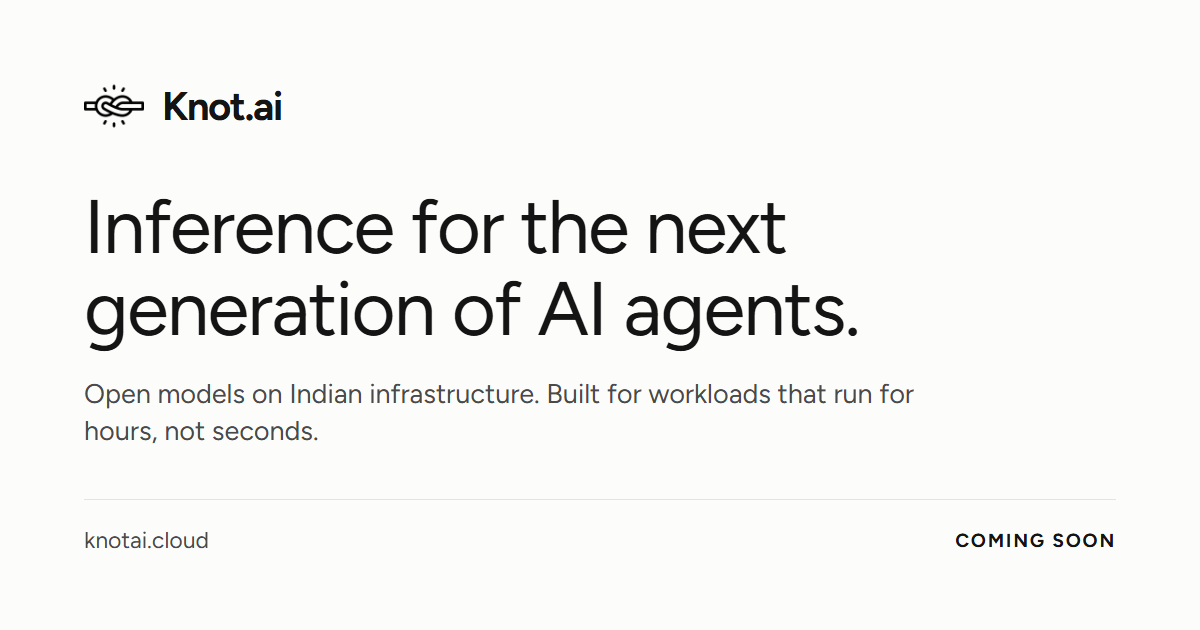
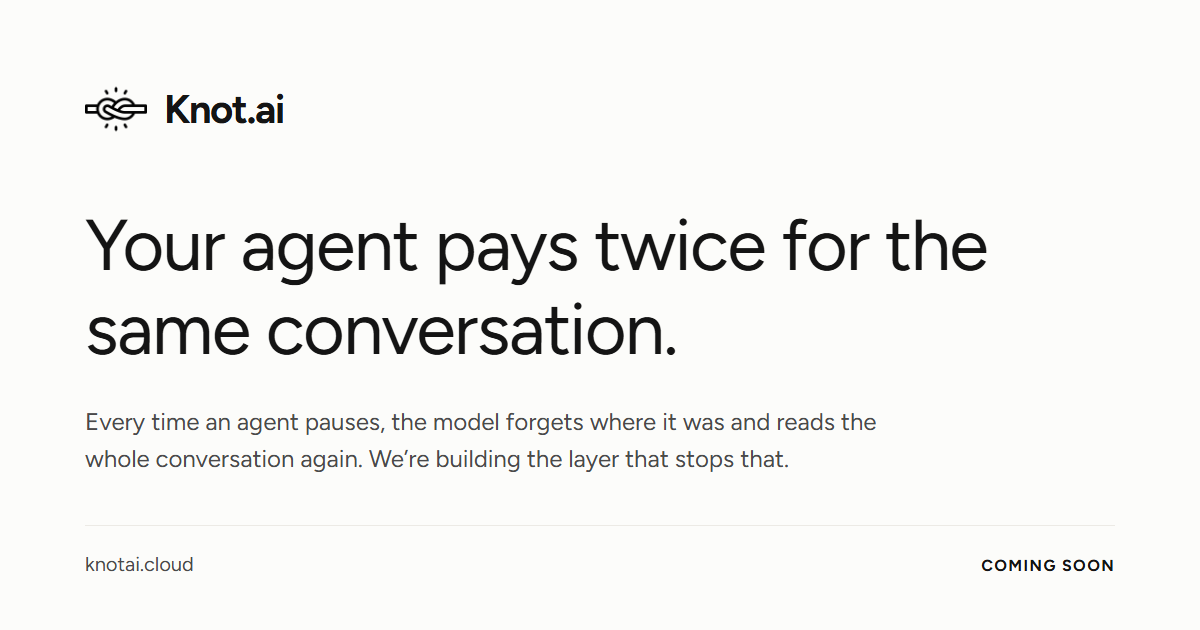
Route all contact to aryankumar@; regenerate OG card for the new headline
hello@knotai.cloud is not a real mailbox, so every reference to it was
sending people into a void. Repoint all five remaining ones: the footer
Contact link, the newsletter Subscribe mailto, the waitlist failure
message, and both privacy.html contacts — the DPDP rights/erasure
address and the general one. Nothing on the site points at hello@ now.

og-image.png still carried the previous headline, so social cards paired
the new title with an image reading "Inference for the next generation
of AI agents". Re-rendered at 1200x630 in the site's own Figtree and
palette, keeping the existing layout — logo lockup, headline, subhead,
hairline rule, knotai.cloud / COMING SOON footer — with the current H1
and og:description. og:image:alt and twitter:image:alt updated to match,
and unified: the two had drifted apart over a trailing full stop.

diff --git a/index.html b/index.html
@@ -24,7 +24,7 @@
 <meta property="og:image:type" content="image/png">
 <meta property="og:image:width" content="1200">
 <meta property="og:image:height" content="630">
-<meta property="og:image:alt" content="Knot.ai — Inference for the next generation of AI agents.">
+<meta property="og:image:alt" content="Knot.ai — Your agent pays twice for the same conversation.">
 <meta property="og:locale" content="en_US">
 
 <!-- Twitter/X -->
@@ -32,7 +32,7 @@
 <meta name="twitter:title" content="Knot.ai — Your agent pays twice for the same conversation">
 <meta name="twitter:description" content="Every time an agent pauses, the model forgets where it was and reads the whole conversation again. We're building the layer that stops that.">
 <meta name="twitter:image" content="https://knotai.cloud/og-image.png">
-<meta name="twitter:image:alt" content="Knot.ai — Inference for the next generation of AI agents">
+<meta name="twitter:image:alt" content="Knot.ai — Your agent pays twice for the same conversation.">
 <link rel="preconnect" href="https://app.cal.com">
 <link rel="dns-prefetch" href="https://app.cal.com">
 <link rel="preconnect" href="https://fonts.googleapis.com">
@@ -803,7 +803,7 @@ Cal.ns["30min"]("preload", {calLink:"shivam-singh-krvlu4/30min"});
 <div class="tail fade">
   <h2>Sign up for 'Notes' by Knot.ai</h2>
   <p class="tail-sub">Benchmarks, cost breakdowns, and what we learn running open models on Indian GPUs. Written for people who want the numbers, not the pitch.</p>
-  <form class="signup" onsubmit="event.preventDefault();location.href='mailto:hello@knotai.cloud?subject=Notes%20signup&amp;body='+encodeURIComponent(this.email.value)">
+  <form class="signup" onsubmit="event.preventDefault();location.href='mailto:aryankumar@knotai.cloud?subject=Notes%20signup&amp;body='+encodeURIComponent(this.email.value)">
     <input type="email" name="email" placeholder="name@email.com" aria-label="Email address" required>
     <button type="submit">Subscribe</button>
   </form>
@@ -815,7 +815,7 @@ Cal.ns["30min"]("preload", {calLink:"shivam-singh-krvlu4/30min"});
     </div>
     <nav class="foot-cols" aria-label="Footer">
       <ul class="c1">
-        <li><a href="mailto:hello@knotai.cloud">Contact</a></li>
+        <li><a href="mailto:aryankumar@knotai.cloud">Contact</a></li>
         <li><a href="#about">About</a></li>
       </ul>
       <ul class="c2">
@@ -1020,7 +1020,7 @@ Cal.ns["30min"]("preload", {calLink:"shivam-singh-krvlu4/30min"});
       form.reset(); show('done');
     }).catch(function(){
       err.hidden=false;
-      err.textContent='Could not send just now \u2014 please email hello@knotai.cloud.';
+      err.textContent='Could not send just now \u2014 please email aryankumar@knotai.cloud.';
     }).then(function(){
       btn.disabled=false; btn.textContent=label;
     });

diff --git a/privacy.html b/privacy.html
@@ -155,7 +155,7 @@ h2{margin:52px 0 0;font-size:21px;font-weight:700;line-height:1.2;letter-spacing
     <li>erase it;</li>
     <li>withdraw the consent you gave when you submitted the form.</li>
   </ul>
-  <p>Email <a href="mailto:hello@knotai.cloud?subject=Privacy%20request">hello@knotai.cloud</a> and
+  <p>Email <a href="mailto:aryankumar@knotai.cloud?subject=Privacy%20request">aryankumar@knotai.cloud</a> and
     we will action it. Deleting your data means we can no longer contact you about access, so
     withdrawing consent also removes you from the waitlist. If you are not satisfied with how we
     handle your request, you may complain to the Data Protection Board of India.</p>
@@ -171,7 +171,7 @@ h2{margin:52px 0 0;font-size:21px;font-weight:700;line-height:1.2;letter-spacing
 
   <h2>Contact</h2>
   <p>Questions about this notice, or about anything we hold, go to
-    <a href="mailto:hello@knotai.cloud">hello@knotai.cloud</a>.</p>
+    <a href="mailto:aryankumar@knotai.cloud">aryankumar@knotai.cloud</a>.</p>
 </main>
 
 <hr class="rule">
